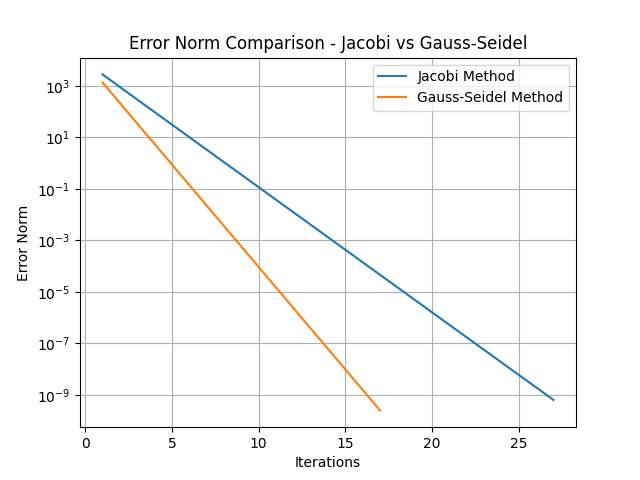
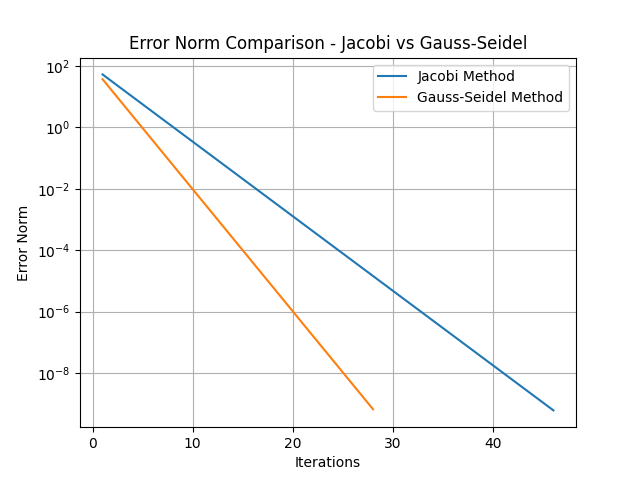
Added lists conversions

diff --git a/src/py_matrix.cpp b/src/py_matrix.cpp
@@ -79,5 +79,34 @@ PYBIND11_MODULE(py_matrix, m) {
             Dimensions size = obj.getSize();
             return std::tuple<int, int>(size.n, size.m);
         })
+        .def("to_list", [](const Matrix<double> &self) {
+            py::list result;
+            Dimensions size = self.getSize();
+            for (int i = 0; i < size.n; ++i) {
+                py::list row;
+                for (int j = 0; j < size.m; ++j) {
+                    row.append(self(i, j));
+                }
+                result.append(row);
+            }
+            return result;
+        })
+        .def("from_list", [](Matrix<double> &self, const py::list &input_list) {
+            int rows = py::len(input_list);
+            if (rows == 0) return;
+
+            int cols = py::len(input_list[0]);
+            self = Matrix<double>(rows, cols);
+
+            for (int i = 0; i < rows; ++i) {
+                py::list row = input_list[i];
+                if (py::len(row) != cols) {
+                    throw MatrixSizeDisparityException();
+                }
+                for (int j = 0; j < cols; ++j) {
+                    self(i, j) = py::cast<double>(row[j]);
+                }
+            }
+        })
 ;
 }

diff --git a/python/common.py b/python/common.py
@@ -1,10 +1,10 @@
 from py_matrix import Matrix
-
+import math as mmm
 def norm(A: Matrix): 
     norm = 0
     for index in range(A.getSize()[0]):
         norm += A[(index,0)]**2
-    return norm
+    return mmm.sqrt(norm)
 
 def create_matrix(N, a1, a2, a3):
     mat = Matrix(N,N,a1)

diff --git a/main.py b/main.py
@@ -6,7 +6,6 @@ from python.gauss_seidel import gauss_seidel_iter_method
 from python.common import create_matrix
 from math import sin
 import matplotlib.pyplot as plt
-import numpy as np
 
 # ZADANIE A,B
 a1, a2, a3 = 7, -1, -1
